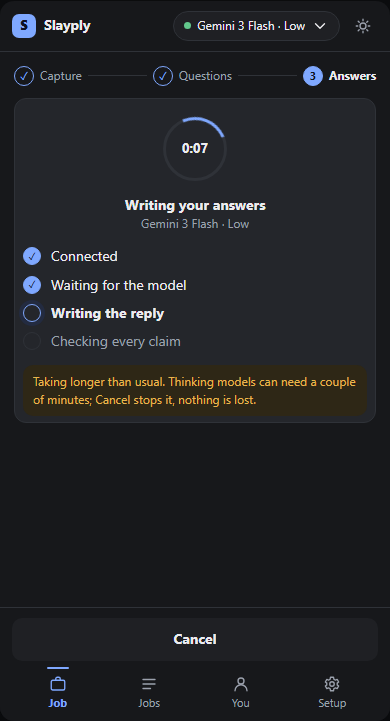
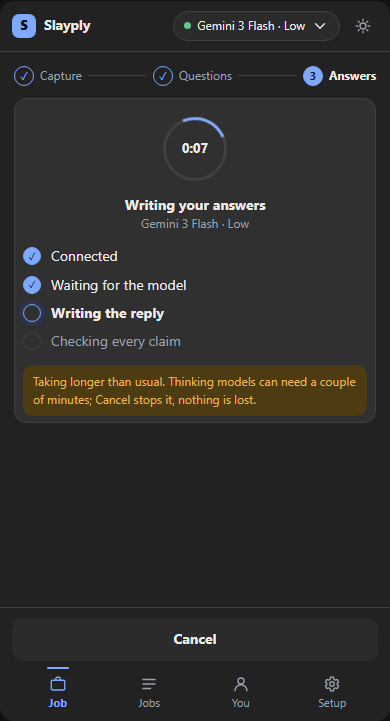
docs(design): neutral #222222 dark theme in the prototype (REDO-00)

Changed region(s): [[0.0615, 0.4882, 0.9538, 0.5798]]

diff --git a/docs/design/prototype/index.html b/docs/design/prototype/index.html
@@ -27,21 +27,21 @@
         --ease: cubic-bezier(0.2, 0.7, 0.2, 1);
       }
       :root[data-theme="dark"] {
-        --bg: #17181b;
-        --surface: #1f2024;
-        --raised: #24262b;
-        --border: #2f3238;
+        --bg: #222222;
+        --surface: #2b2b2b;
+        --raised: #303030;
+        --border: #404040;
         --text: #ececef;
         --muted: #9ba1ad;
         --accent: #7fa8ff;
         --accent-ink: #0d1424;
-        --accent-soft: #232b40;
+        --accent-soft: #2c3550;
         --ok: #62c88c;
-        --ok-soft: #1c2a23;
+        --ok-soft: #25332b;
         --warn: #e8b64f;
-        --warn-soft: #2e2716;
+        --warn-soft: #4d3b12;
         --bad: #f08a80;
-        --bad-soft: #301d1b;
+        --bad-soft: #3a2623;
         --shadow: 0 1px 2px rgb(0 0 0 / 30%), 0 4px 12px rgb(0 0 0 / 25%);
       }
       * { box-sizing: border-box; }
@@ -56,7 +56,7 @@
         gap: 24px;
         padding: 24px;
       }
-      :root[data-theme="dark"] body { background: #0c0d0f; }
+      :root[data-theme="dark"] body { background: #141414; }
       .notes { color: #2b2f38; font-size: 13px; position: sticky; top: 24px; align-self: start; }
       :root[data-theme="dark"] .notes { color: #b9bfcb; }
       .notes h1 { font-size: 16px; margin: 0 0 4px; }

diff --git a/docs/adr/0022-redesign-direction.md b/docs/adr/0022-redesign-direction.md
@@ -29,7 +29,7 @@ Using the production build with a real Gemini key showed a panel that scrolls to
 
 ## Decision
 Option 2, in the order set out in `docs/REDESIGN_PLAN.md`:
-- **Themes:** light, dark and follow-system only; one accent (`#0b5fff` light, `#7fa8ff` dark); dark background a greyish black (`#17181b`). The three presets and the preset picker go; a stored `settings.preset` is ignored. The site uses the same tokens.
+- **Themes:** light, dark and follow-system only; one accent (`#0b5fff` light, `#7fa8ff` dark); dark background a greyish black (`#222222`). The three presets and the preset picker go; a stored `settings.preset` is ignored. The site uses the same tokens.
 - **Structure:** a fixed app bar, a content area, and a dock holding one primary action and the tabs. The Job tab becomes Capture, Questions, Answers.
 - **Activity:** one component for every long task, driven by an explicit stage machine, showing the stage, time elapsed and Cancel. The relay sends a keep-alive event so a quiet stream is not dropped.
 - **Model chip:** provider, model and effort in the app bar; Setup keeps keys, Direct Mode, theme and data.

diff --git a/docs/REDESIGN_PLAN.md b/docs/REDESIGN_PLAN.md
@@ -21,7 +21,7 @@ Found by using the production build with a real Gemini key:
 
 - One purpose per screen; one primary button, always in the dock.
 - Details open in drawers or popovers; a screen should fit in about 720 px without scrolling for the common case.
-- Colour: light (white, `#0b5fff` accent), dark (greyish black `#17181b`, `#7fa8ff` accent). Status colours only for status (ok, warn, bad). Meaning never depends on colour alone.
+- Colour: light (white, `#0b5fff` accent), dark (greyish black `#222222`, `#7fa8ff` accent). Status colours only for status (ok, warn, bad). Meaning never depends on colour alone.
 - Motion is small (press, copy, popover, step change) and every motion has a reduced-motion rule and a test.
 - Plain copy everywhere except empty states.
 
